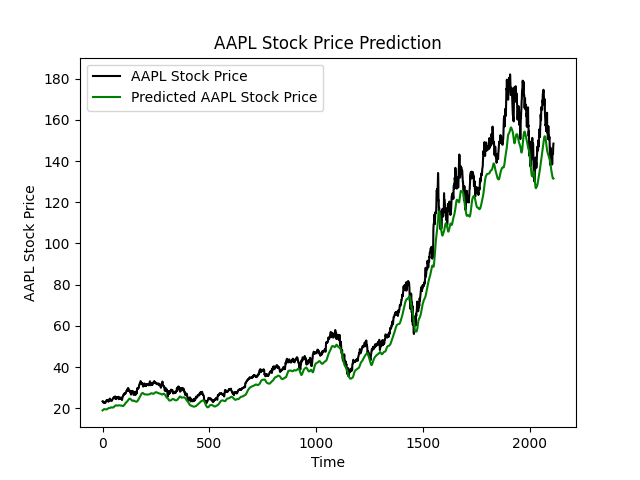
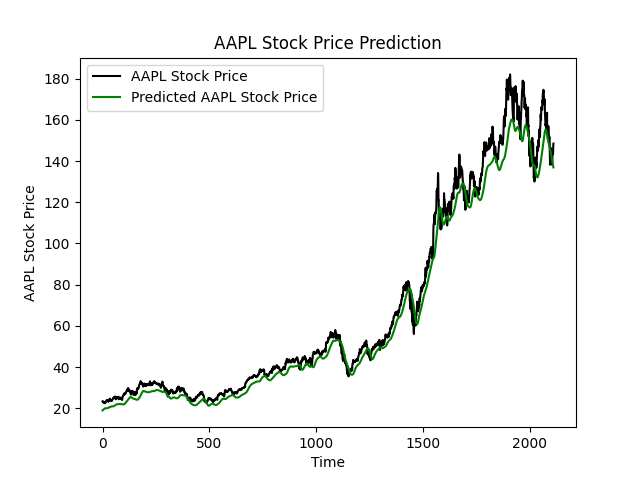
LSTM Modification + Image Uploads (Model plt)

diff --git a/ML_Models/LSTM/LSTM.py b/ML_Models/LSTM/LSTM.py
@@ -60,9 +60,9 @@ for t in ticker_symbols:
 
     model.add(Dense(units=1))
 
-    model.compile(optimizer='sgd',loss='mean_squared_error')
+    model.compile(optimizer='adam',loss='mean_squared_error')
 
-    model.fit(X_train,y_train,epochs=10,batch_size=32)
+    model.fit(X_train,y_train,epochs=2,batch_size=32)
 
     test_data = ticker_data.iloc[-(int(round(len(ticker_data) * .2 ,0))):]
     test_set = test_data.iloc[:, 5:6].values
